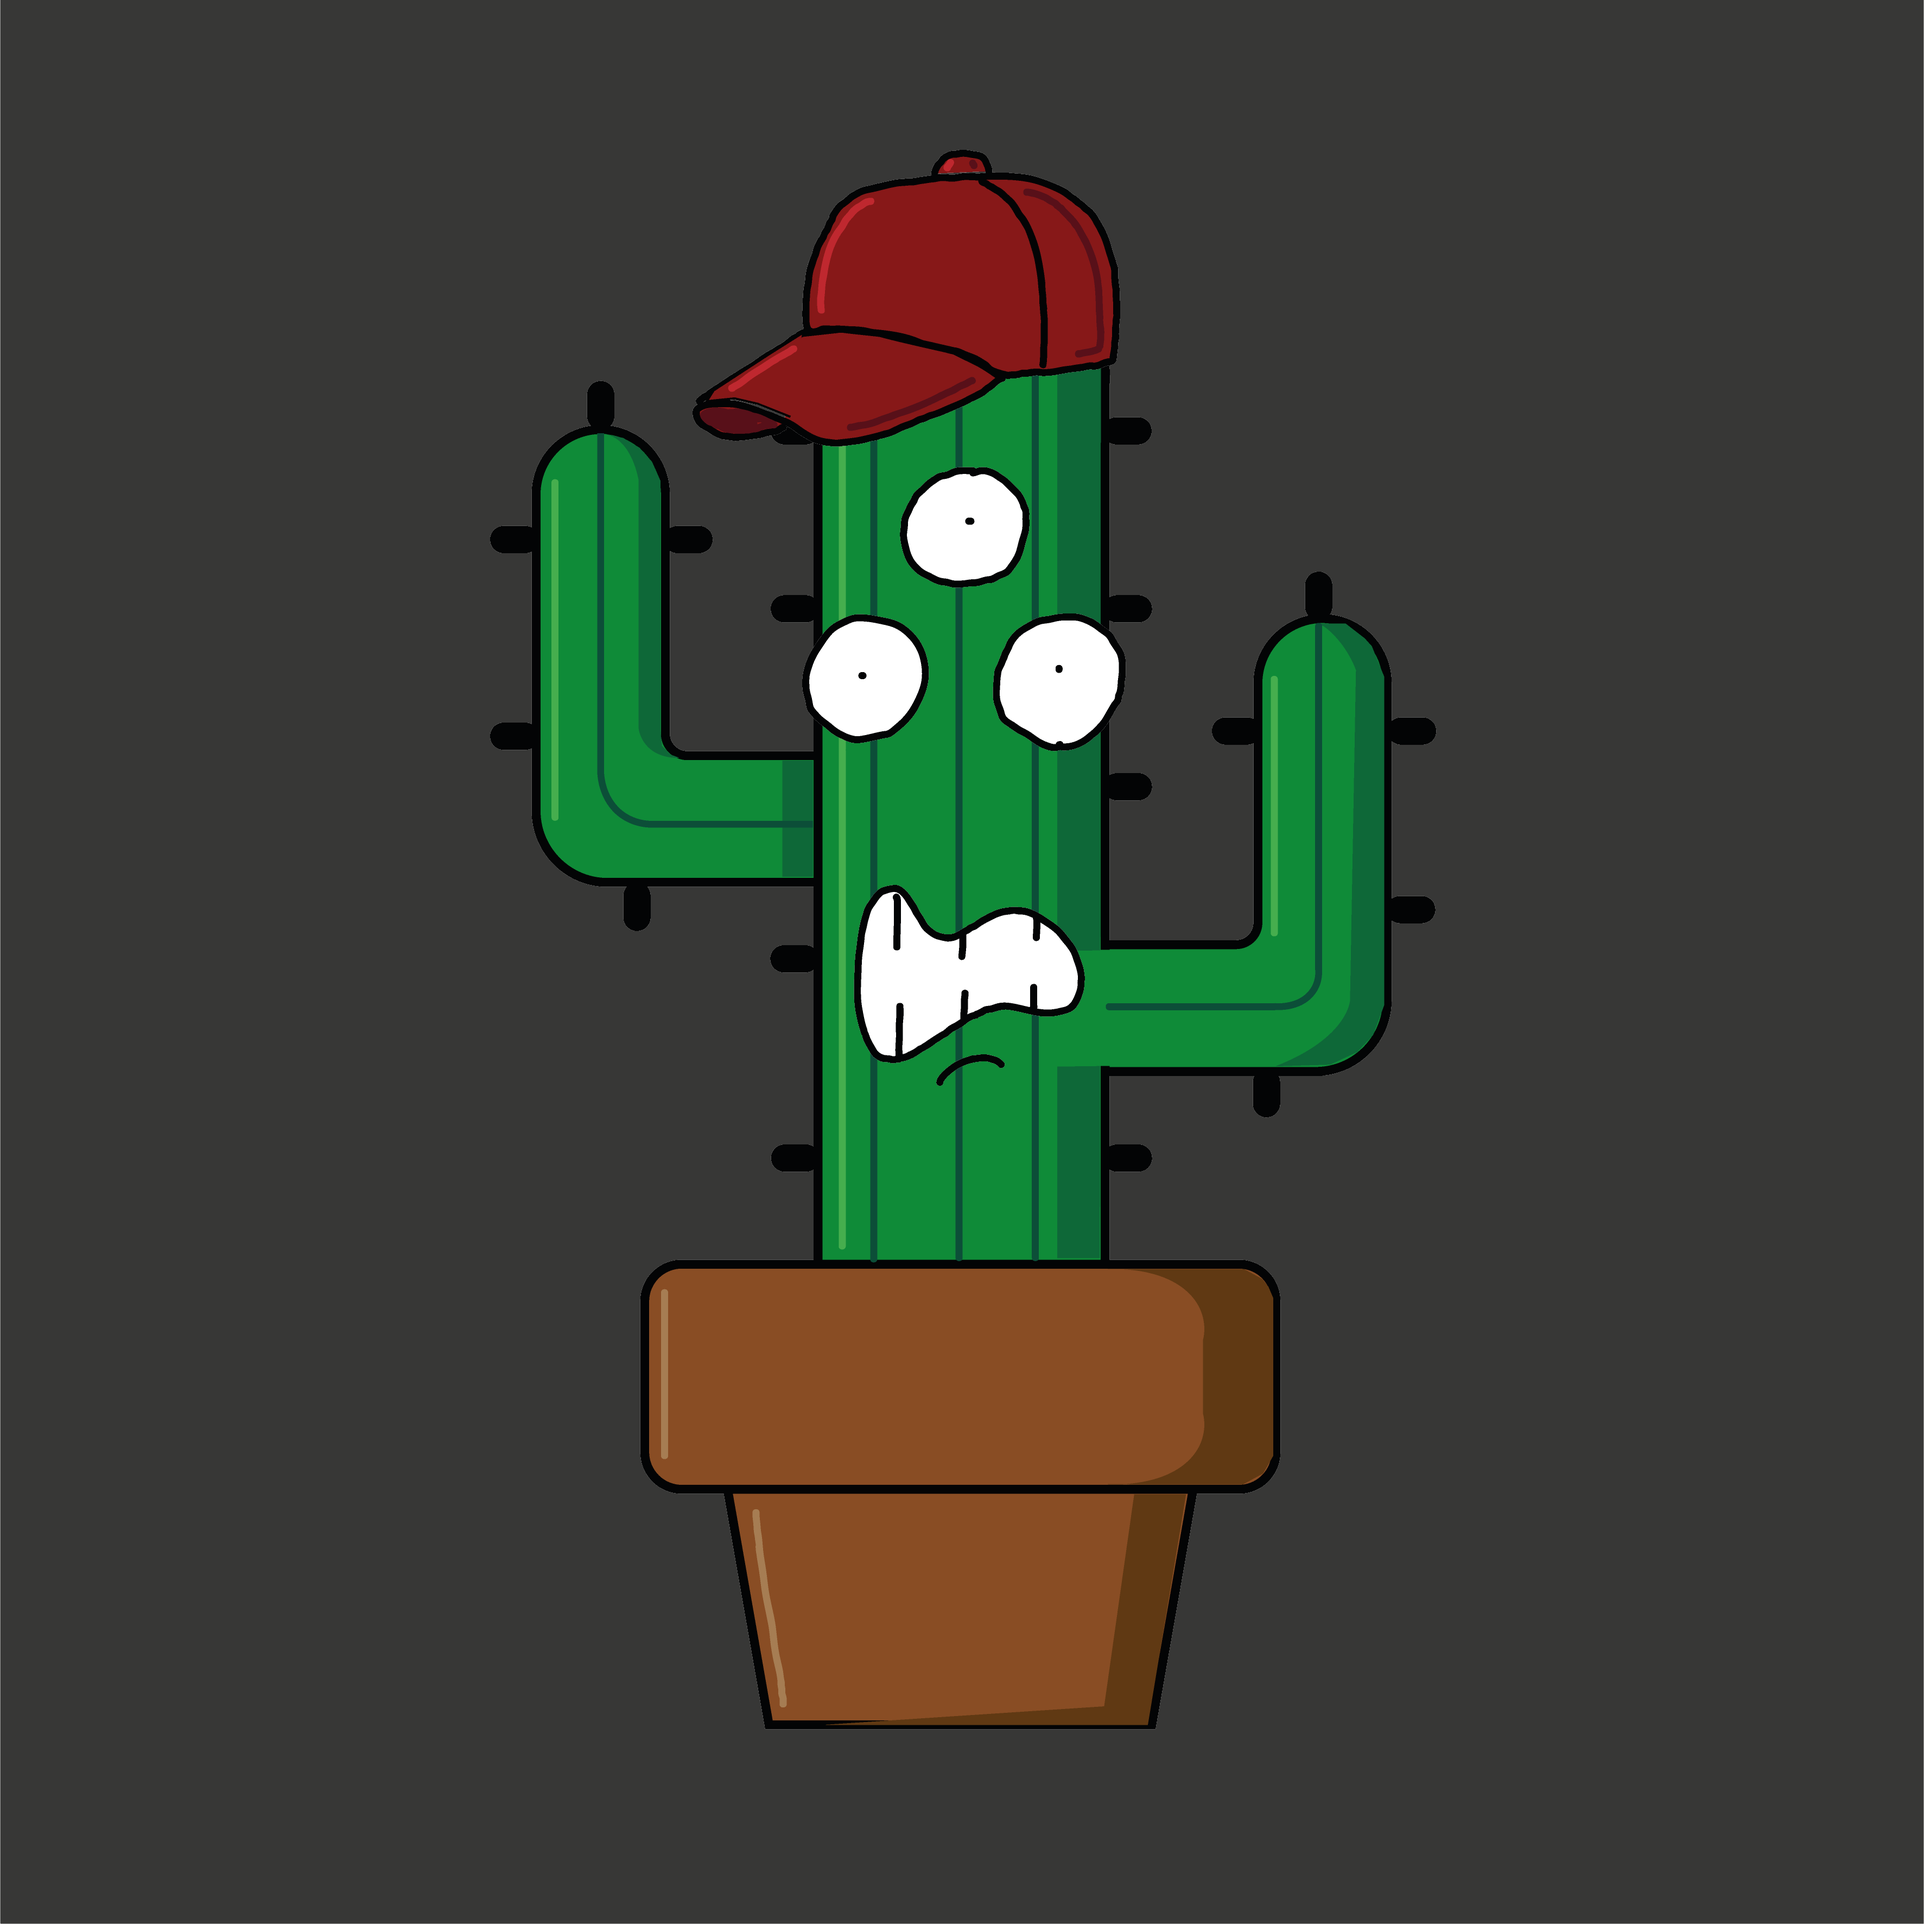
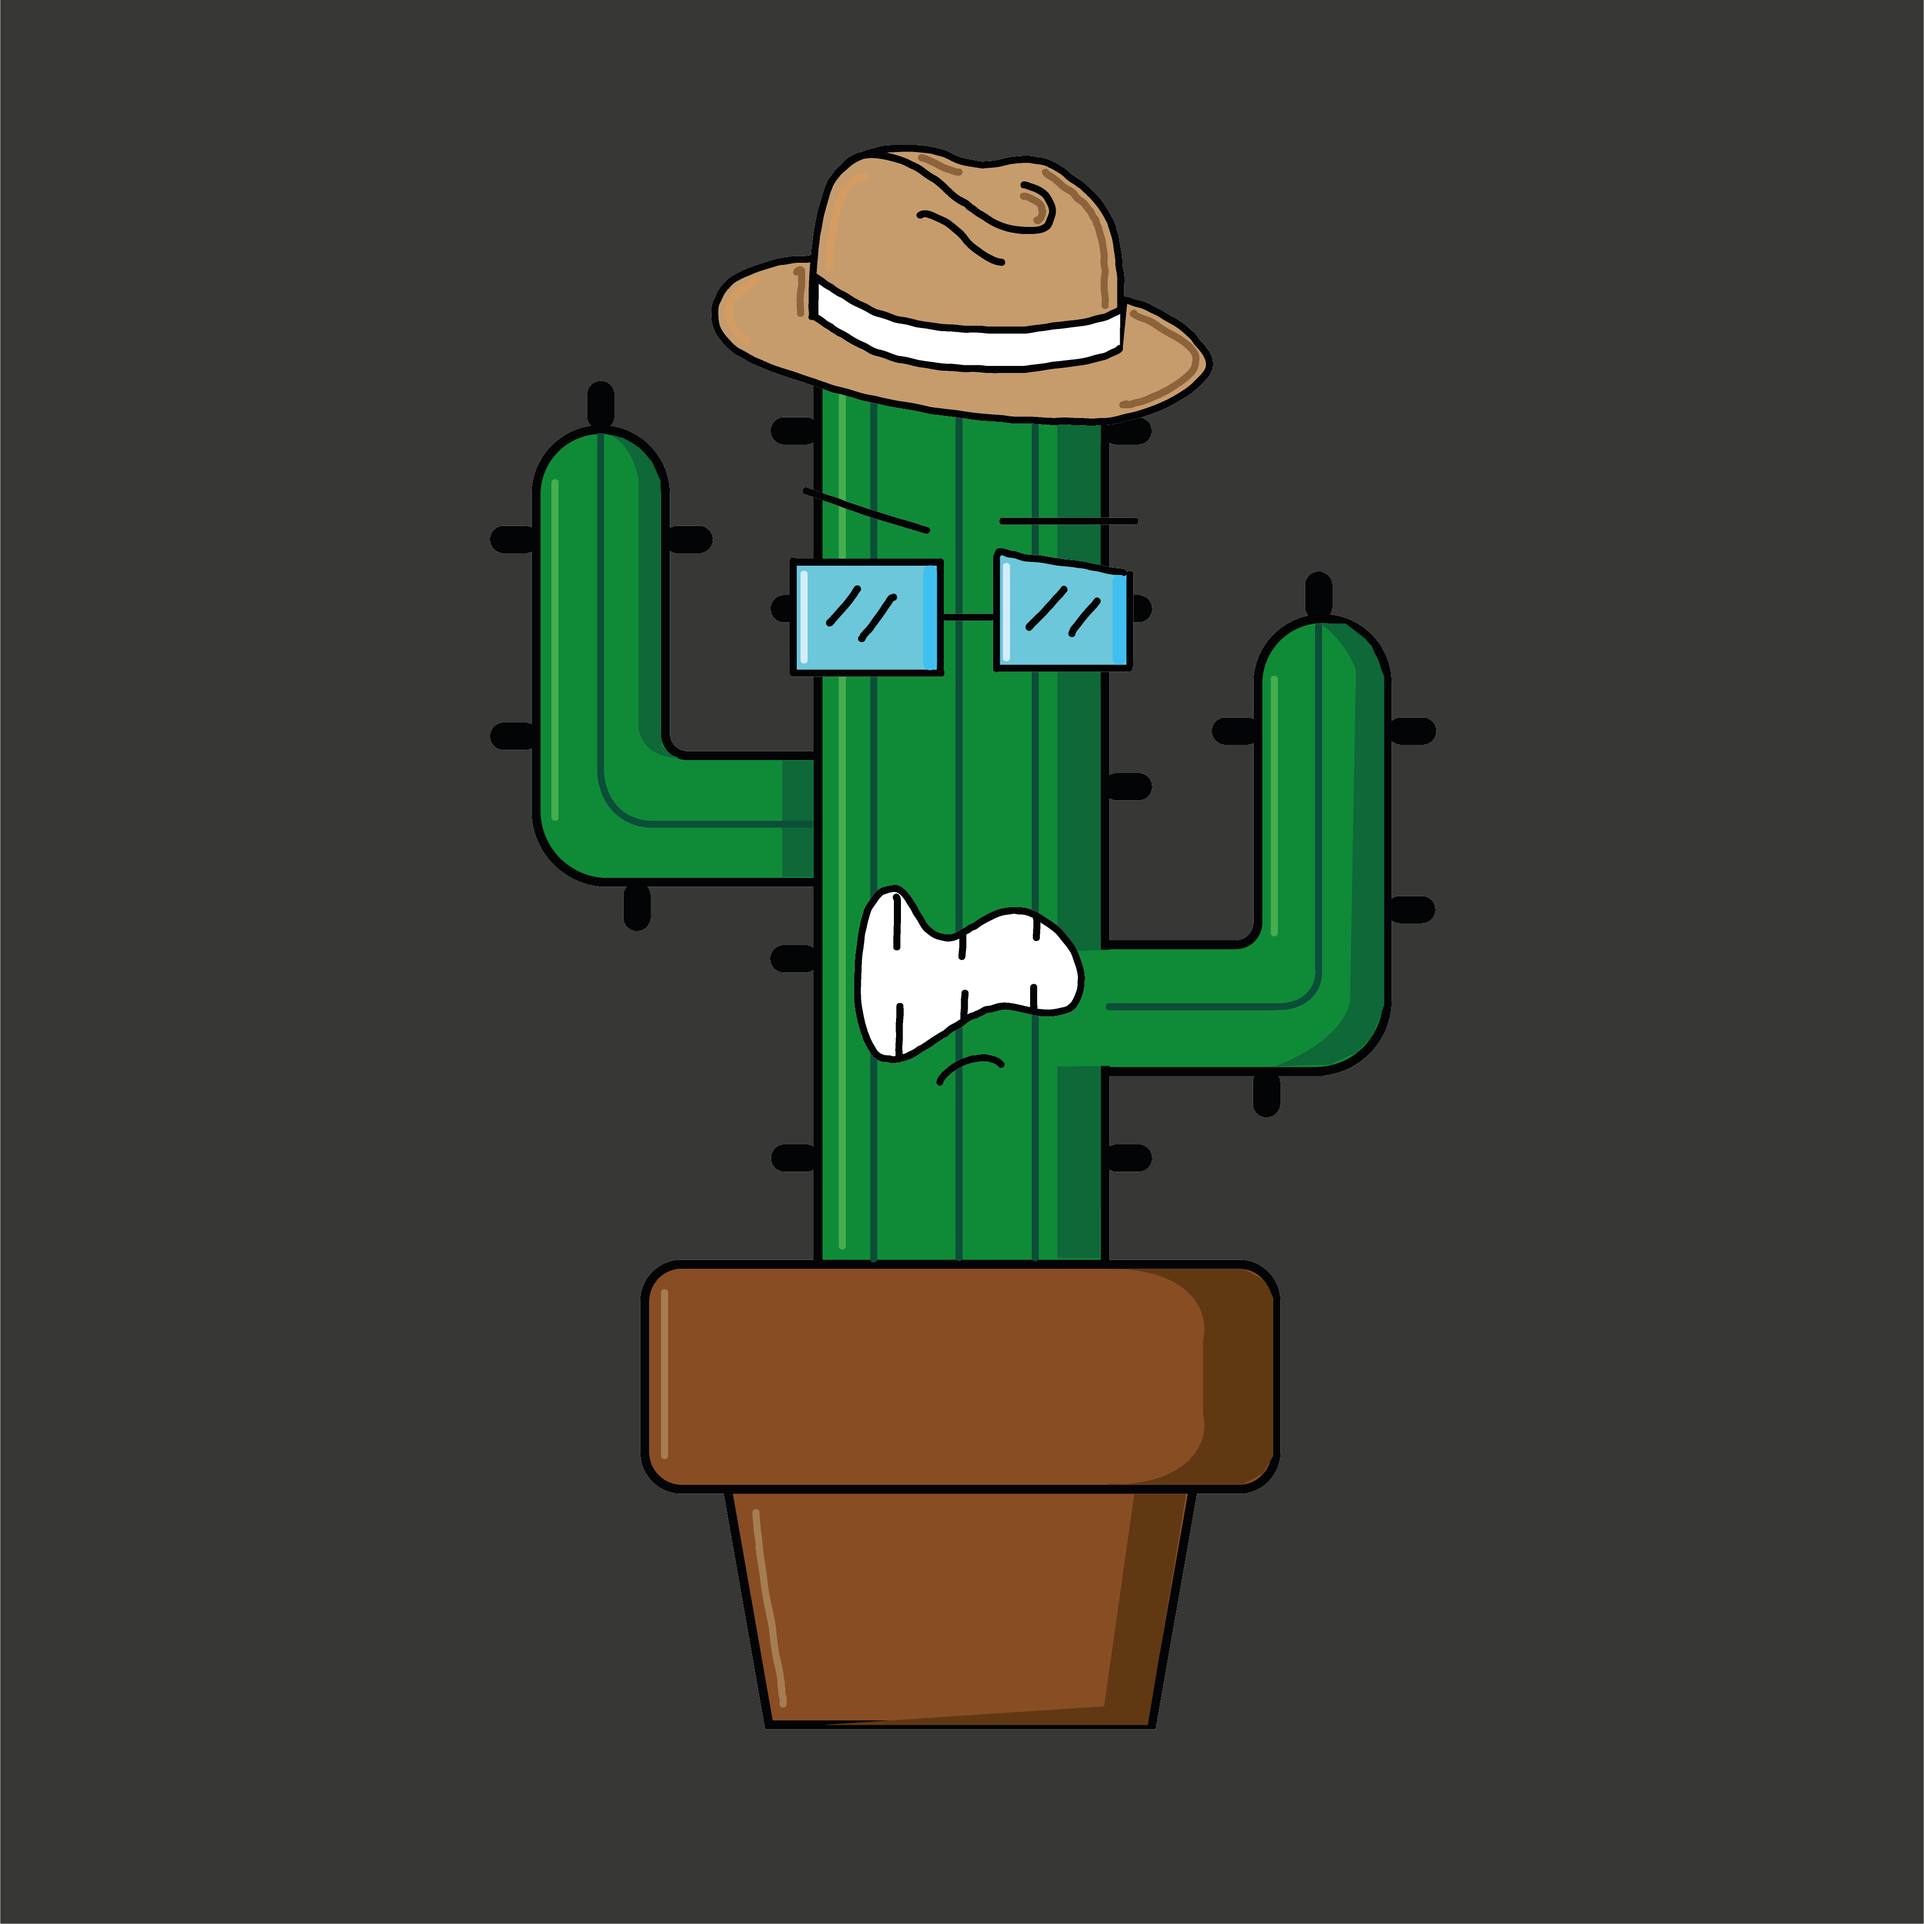
some pick chance stuff added

Changed region(s): [[0.3413, 0.0621, 0.6516, 0.4035]]

diff --git a/utilities/generate_json_data.py b/utilities/generate_json_data.py
@@ -13,33 +13,18 @@ def generate_json_data(new_image_id: int, combination: dict) -> None:
     dictionary = {
         "name": "CryptoCactus#" + str(new_image_id),
         "description": "Crypto Cactus number #" + str(new_image_id),
-        "image": "ipfs://Qmb7skA43kEUQwVTaAepNmU9sk4rpHQn4feB4M5ibpdYZx/2650.png",
-        "dna": "5b882fd9b472c8696ca514e34a91b32e36ff48f4",
+        "image": "ipfs://Qmb7skA43kEUQwVTaAepNmU9sk4rpHQn4feB4M5ibpdYZx/2650.png",  # not sure if needed
+        "dna": "5b882fd9b472c8696ca514e34a91b32e36ff48f4",  # not sure if needed
         "edition": 1,
         "date": floor(time()),
         "attributes": [
-            {
-                "trait_type": "BACKGROUND",
-                "value": background_values[combination['background_id']]
-            },
-            {
-                "trait_type": "BODY",
-                "value": body_values[combination['body_id']]
-            },
-            {
-                "trait_type": "MOUTH",
-                "value": mouth_values[combination['mouth_id']]
-            },
-            {
-                "trait_type": "HAT",
-                "value": hat_values[combination['hat_id']]
-            },
-            {
-                "trait_type": "EYES",
-                "value": eyes_values[combination['eyes_id']]
-            },
+            {"trait_type": "BACKGROUND", "value": background_values[combination['background_id']]},
+            {"trait_type": "BODY", "value": body_values[combination['body_id']]},
+            {"trait_type": "MOUTH", "value": mouth_values[combination['mouth_id']]},
+            {"trait_type": "HAT", "value": hat_values[combination['hat_id']]},
+            {"trait_type": "EYES", "value": eyes_values[combination['eyes_id']]},
         ],
-        "compiler": "HashLips Art Engine"
+        "compiler": "HashLips Art Engine"  # not sure if needed
     }
 
     json_data = dumps(obj=dictionary, indent=4)

diff --git a/main.py b/main.py
@@ -1,38 +1,8 @@
-from random import randint
-from PIL import Image
 from time import time
-
-from utilities.generate_json_data import generate_json_data
-from utilities.generate_new_combination import generate_new_combination
-
-
-def main():
-    x = 1
-    while x < 7:
-        combination = generate_new_combination()
-
-        new_image = Image.open(fp='assets/background/' + str(combination['background_id']) + '.png')
-
-        body = Image.open(fp='assets/body/' + str(combination['body_id']) + '.png').convert('RGBA')
-        new_image.paste(im=body, mask=body)
-
-        eyes = Image.open(fp='assets/eyes/' + str(combination['eyes_id']) + '.png').convert('RGBA')
-        new_image.paste(im=eyes, mask=eyes)
-
-        hat = Image.open(fp='assets/hat/' + str(combination['hat_id']) + '.png').convert('RGBA')
-        new_image.paste(im=hat, mask=hat)
-
-        mouth = Image.open(fp='assets/mouth/' + str(combination['mouth_id']) + '.png').convert('RGBA')
-        new_image.paste(im=mouth, mask=mouth)
-
-        new_image.save(fp='generated_nft_set/images/' + str(x) + '.png', format="PNG")
-
-        generate_json_data(new_image_id=x, combination=combination)
-        print('CryptoCactus#' + str(x) + ' generated!')
-        x += 1
+from utilities.generate_nft_set import generate_nft_set
 
 
 start = time()
-main()
+generate_nft_set()
 end = time()
 print('Done! It took ' + str(end - start) + ' seconds to finish')

diff --git a/utilities/generate_nft_set.py b/utilities/generate_nft_set.py
@@ -1,0 +1,26 @@
+from PIL import Image
+
+from utilities.generate_json_data import generate_json_data
+from utilities.generate_new_combination import generate_new_combination
+
+
+def generate_nft_set() -> None:
+    x = 1
+    while x < 7:
+        combination = generate_new_combination()
+
+        new_image = Image.open(fp='assets/background/' + str(combination['background_id']) + '.png')
+        _add_attachment(new_image, 'assets/body/', combination['body_id'])
+        _add_attachment(new_image, 'assets/eyes/', combination['eyes_id'])
+        _add_attachment(new_image, 'assets/hat/', combination['hat_id'])
+        _add_attachment(new_image, 'assets/mouth/', combination['mouth_id'])
+        new_image.save(fp='generated_nft_set/images/' + str(x) + '.png', format="PNG")
+
+        generate_json_data(new_image_id=x, combination=combination)
+        print('CryptoCactus#' + str(x) + ' generated!')
+        x += 1
+
+
+def _add_attachment(original_image: Image, attachment_path: str, attachment_id: int) -> None:
+    body = Image.open(fp=attachment_path + str(attachment_id) + '.png').convert('RGBA')
+    original_image.paste(im=body, mask=body)

diff --git a/utilities/generate_new_combination.py b/utilities/generate_new_combination.py
@@ -1,4 +1,4 @@
-from random import randint
+from random import choices
 
 generated_combinations = []
 
@@ -6,14 +6,15 @@ generated_combinations = []
 def generate_new_combination() -> dict:
     while True:
         combination = {
-            'background_id': randint(0, 2),
+            'background_id': choices(population=(0, 1, 2), weights=(10, 45, 45), k=1)[0],
             'body_id': 0,
-            'eyes_id': randint(0, 1),
-            'hat_id': randint(0, 1),
-            'mouth_id': randint(0, 1)
+            'eyes_id': choices(population=(0, 1), weights=(50, 50), k=1)[0],  # TODO: make chances configurable
+            'hat_id': choices(population=(0, 1), weights=(50, 50), k=1)[0],
+            'mouth_id': choices(population=(0, 1), weights=(50, 50), k=1)[0]
         }
 
         if combination not in generated_combinations:
+            generated_combinations.append(combination)
             return combination
 
         print('Collision occurred!')
